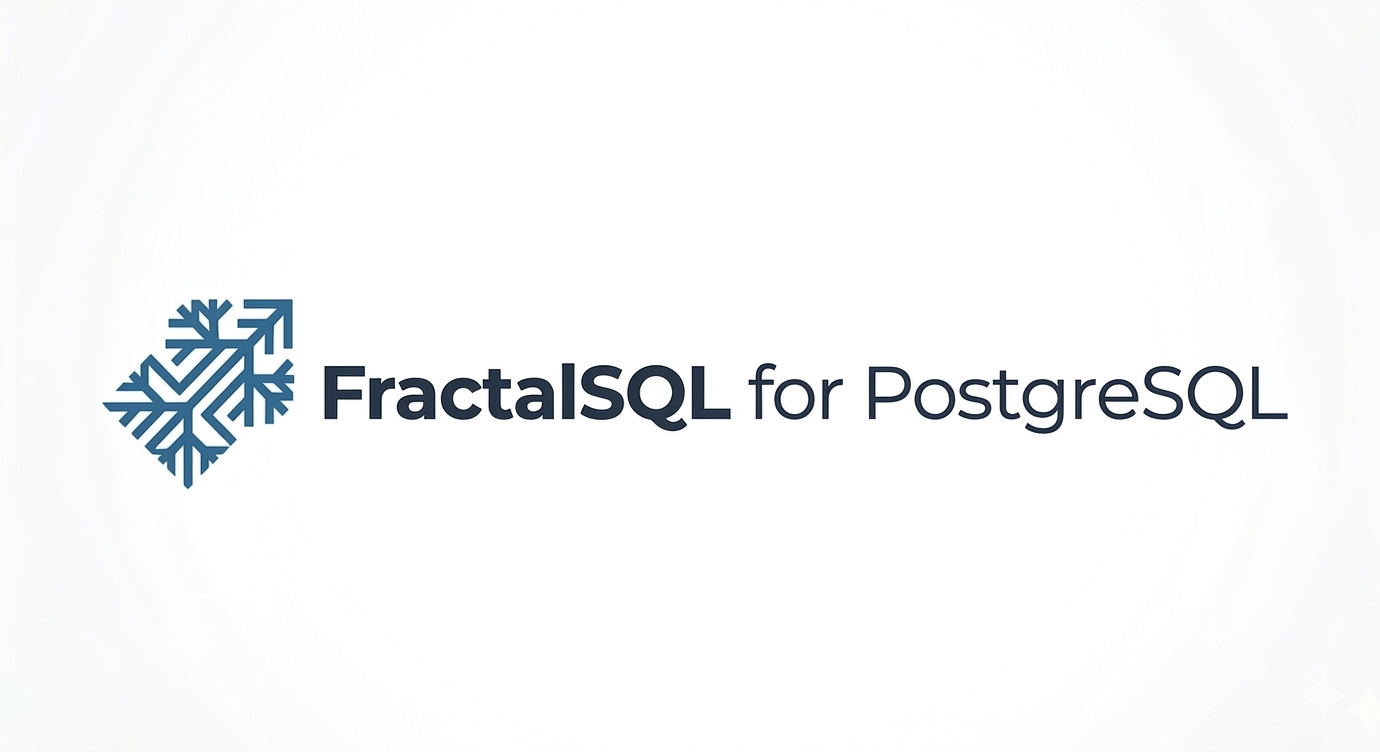
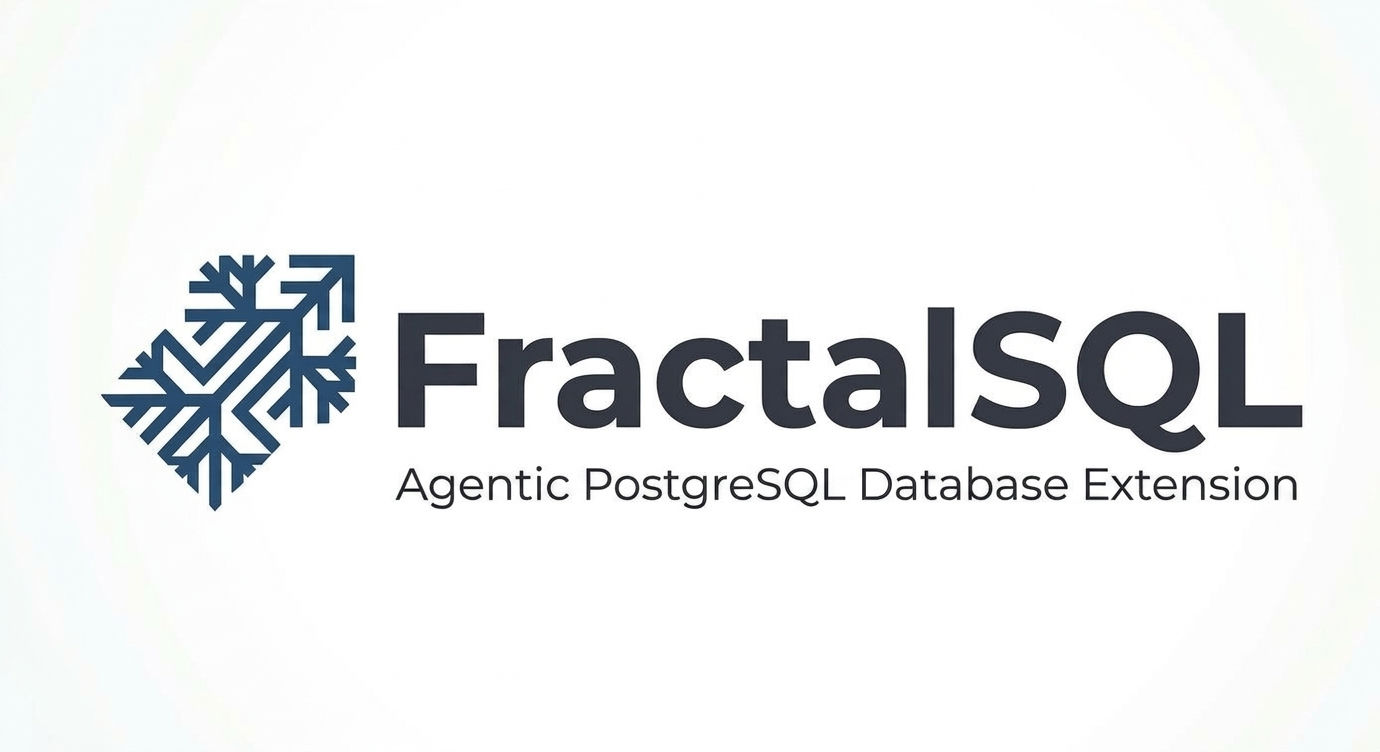
release: FractalSQL v2.0.19 - agentic updates
Agentic database engine for PostgreSQL 14-18 on Linux, Windows, and macOS.
Vector search, in-database LLM reasoning, safety-gated Text-to-SQL,
composable domain agents, and a tamper-evident audit ledger
for regulated environments.

Release Updates:
  - Update RHEL install-test CI baseurl to use dnf releasever.
  - Update macOS build_test for quantize_int8 testing.
  - Update sql_agent_savepoint test.

Changed region(s): [[0.0623, 0.3364, 0.9659, 0.6729]]

diff --git a/src/fractalsql.c b/src/fractalsql.c
@@ -179,7 +179,7 @@ static T2SAllowedStmts t2s_allowed_stmts_mode(void);
 static char *fractal_text_to_sql_internal(const char *question, ArrayType *table_names, char *feedback);
 
 #define FSQL_EDITION "Community"
-#define FSQL_VERSION "2.0.18"
+#define FSQL_VERSION "2.0.19"
 
 /* B4-extended (H3) — supply-side DoS guards.
  *

diff --git a/README.md b/README.md
@@ -3,7 +3,7 @@
 </p>
 
 # FractalSQL: Sovereign Data Intelligence
-### Sovereign, Agentic PostgreSQL
+### Agentic PostgreSQL Database Extension
 
 **Vector Search. In-Database Reasoning. Production-Safe Agency. All beside your data.**
 
